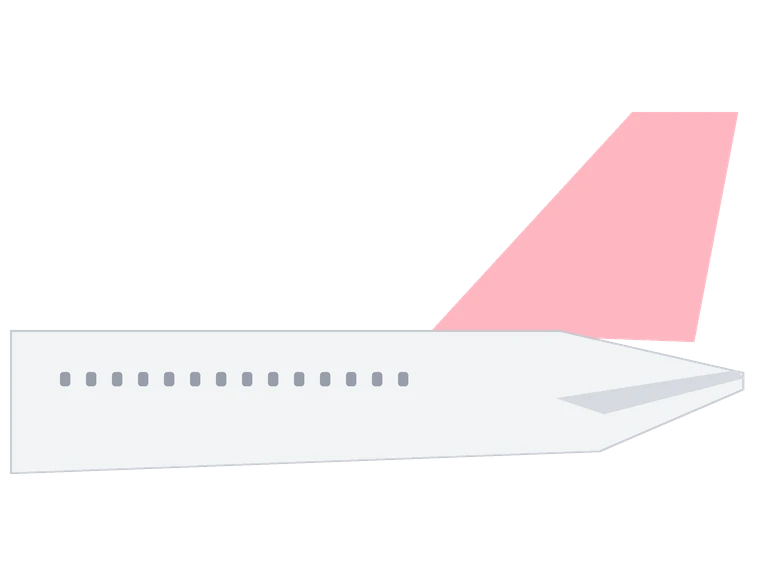
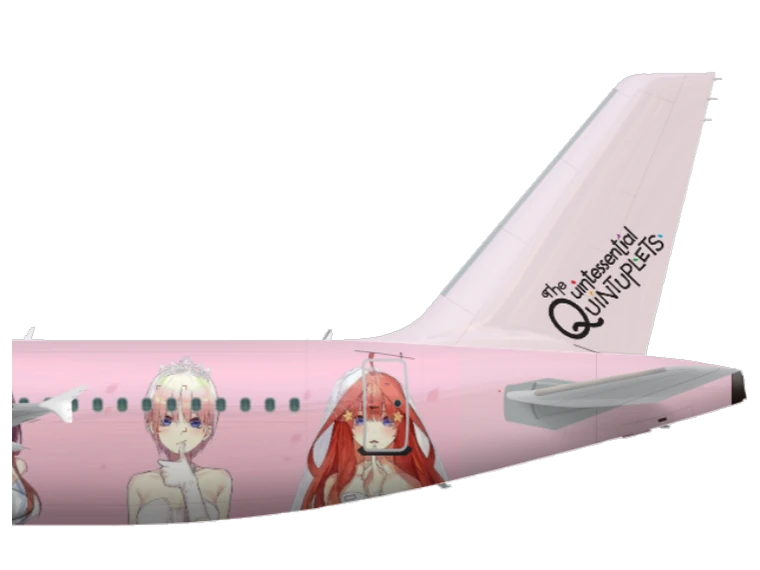
Replace the last stand-in livery with the member's own
The Connect member's livery has arrived and replaces the drawn stand-in.
Its backdrop is a flat tinted grey and its fin a very pale pink, so the
cutout matches the backdrop by colour distance rather than brightness,
which keeps the fin whole. No stand-in liveries remain.

diff --git a/assets/js/data.js b/assets/js/data.js
@@ -486,7 +486,7 @@ const MEMBERS = [
   },
   {
     name:'QuintAir', code:'QA', country:'United States', group:'connect',
-    color:'#FFB6C1', tail:'assets/img/members/quintair.webp',   // stand-in until the livery arrives; also #FFFFFF
+    color:'#FFB6C1', tail:'assets/img/members/quintair.webp',   // also #FFFFFF
     hubs:['LAX','MIA','JFK','DFW'], focus:[], joined:2026,
     blurb:'A US international carrier in character liveries, flying from Los ' +
           'Angeles, Miami, New York JFK and Dallas/Fort Worth.',

diff --git a/index.html b/index.html
@@ -163,7 +163,7 @@
     </div>
   </div>
 </footer>
-<script src="assets/js/data.js?v=eb2d39ec"></script>
+<script src="assets/js/data.js?v=1afca06c"></script>
 <script src="assets/js/site.js?v=756ac757"></script>
 <script>
   renderMembers(document.getElementById('membersHome'));

diff --git a/book.html b/book.html
@@ -220,7 +220,7 @@
     </div>
   </div>
 </footer>
-<script src="assets/js/data.js?v=eb2d39ec"></script>
+<script src="assets/js/data.js?v=1afca06c"></script>
 <script src="assets/js/site.js?v=756ac757"></script>
 <script src="assets/js/booking.js?v=3150a536"></script>
 <script>

diff --git a/bookings.html b/bookings.html
@@ -122,7 +122,7 @@
     </div>
   </div>
 </footer>
-<script src="assets/js/data.js?v=eb2d39ec"></script>
+<script src="assets/js/data.js?v=1afca06c"></script>
 <script src="assets/js/site.js?v=756ac757"></script>
 <script src="assets/js/booking.js?v=3150a536"></script>
 <script>

diff --git a/members.html b/members.html
@@ -121,7 +121,7 @@
     </div>
   </div>
 </footer>
-<script src="assets/js/data.js?v=eb2d39ec"></script>
+<script src="assets/js/data.js?v=1afca06c"></script>
 <script src="assets/js/site.js?v=756ac757"></script>
 <script>
   renderMembers(document.getElementById('membersAll'));

diff --git a/join.html b/join.html
@@ -171,7 +171,7 @@
     </div>
   </div>
 </footer>
-<script src="assets/js/data.js?v=eb2d39ec"></script>
+<script src="assets/js/data.js?v=1afca06c"></script>
 <script src="assets/js/site.js?v=756ac757"></script>
 <script>
   renderJoin(document.getElementById('joinGroups'));

diff --git a/news.html b/news.html
@@ -117,7 +117,7 @@
     </div>
   </div>
 </footer>
-<script src="assets/js/data.js?v=eb2d39ec"></script>
+<script src="assets/js/data.js?v=1afca06c"></script>
 <script src="assets/js/site.js?v=756ac757"></script>
 <script>
   renderPress(document.getElementById('releases'));

diff --git a/airline-air-siam.html b/airline-air-siam.html
@@ -188,7 +188,7 @@
     </div>
   </div>
 </footer>
-<script src="assets/js/data.js?v=eb2d39ec"></script>
+<script src="assets/js/data.js?v=1afca06c"></script>
 <script src="assets/js/site.js?v=756ac757"></script>
 <script>
   document.getElementById('ftMembers').innerHTML =

diff --git a/airline-akerair.html b/airline-akerair.html
@@ -225,7 +225,7 @@
     </div>
   </div>
 </footer>
-<script src="assets/js/data.js?v=eb2d39ec"></script>
+<script src="assets/js/data.js?v=1afca06c"></script>
 <script src="assets/js/site.js?v=756ac757"></script>
 <script>
   document.getElementById('ftMembers').innerHTML =

diff --git a/airline-altasib.html b/airline-altasib.html
@@ -204,7 +204,7 @@
     </div>
   </div>
 </footer>
-<script src="assets/js/data.js?v=eb2d39ec"></script>
+<script src="assets/js/data.js?v=1afca06c"></script>
 <script src="assets/js/site.js?v=756ac757"></script>
 <script>
   document.getElementById('ftMembers').innerHTML =

diff --git a/airline-caucausair.html b/airline-caucausair.html
@@ -234,7 +234,7 @@
     </div>
   </div>
 </footer>
-<script src="assets/js/data.js?v=eb2d39ec"></script>
+<script src="assets/js/data.js?v=1afca06c"></script>
 <script src="assets/js/site.js?v=756ac757"></script>
 <script>
   document.getElementById('ftMembers').innerHTML =

diff --git a/airline-cias.html b/airline-cias.html
@@ -235,7 +235,7 @@
     </div>
   </div>
 </footer>
-<script src="assets/js/data.js?v=eb2d39ec"></script>
+<script src="assets/js/data.js?v=1afca06c"></script>
 <script src="assets/js/site.js?v=756ac757"></script>
 <script>
   document.getElementById('ftMembers').innerHTML =
